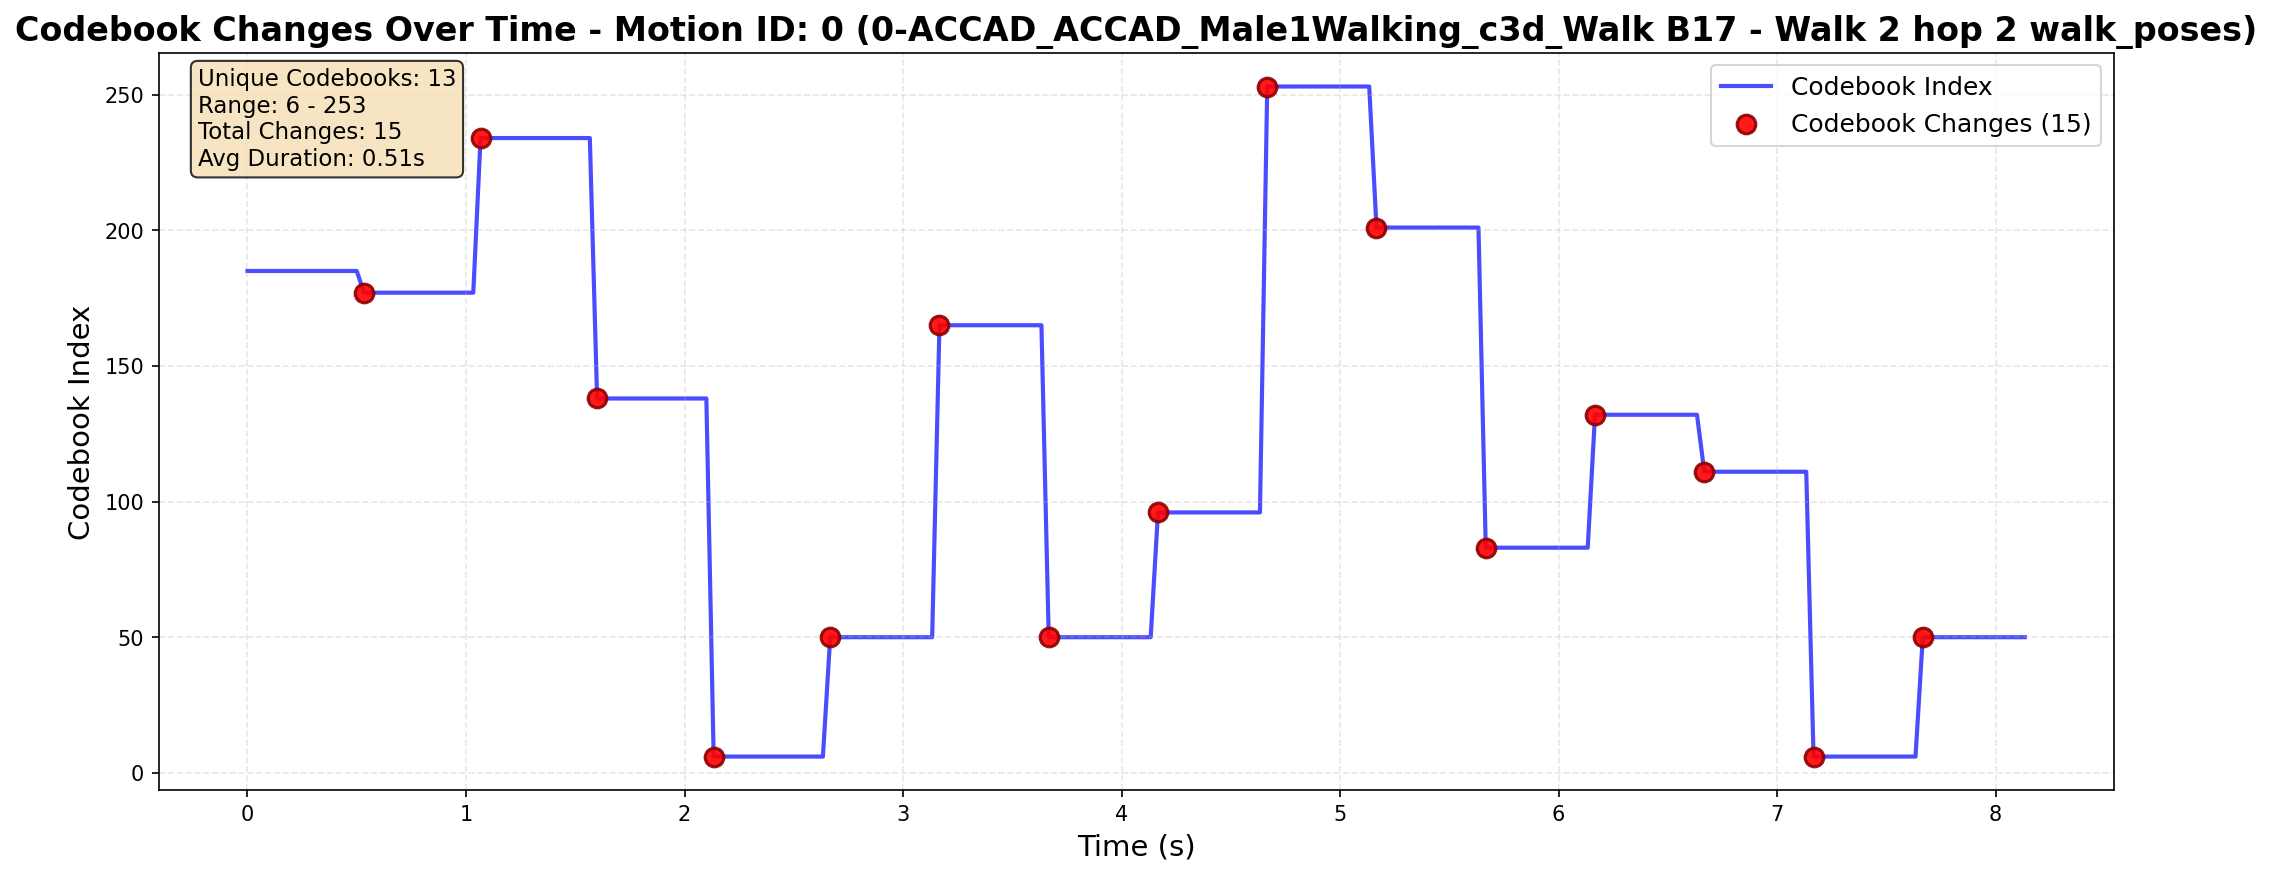
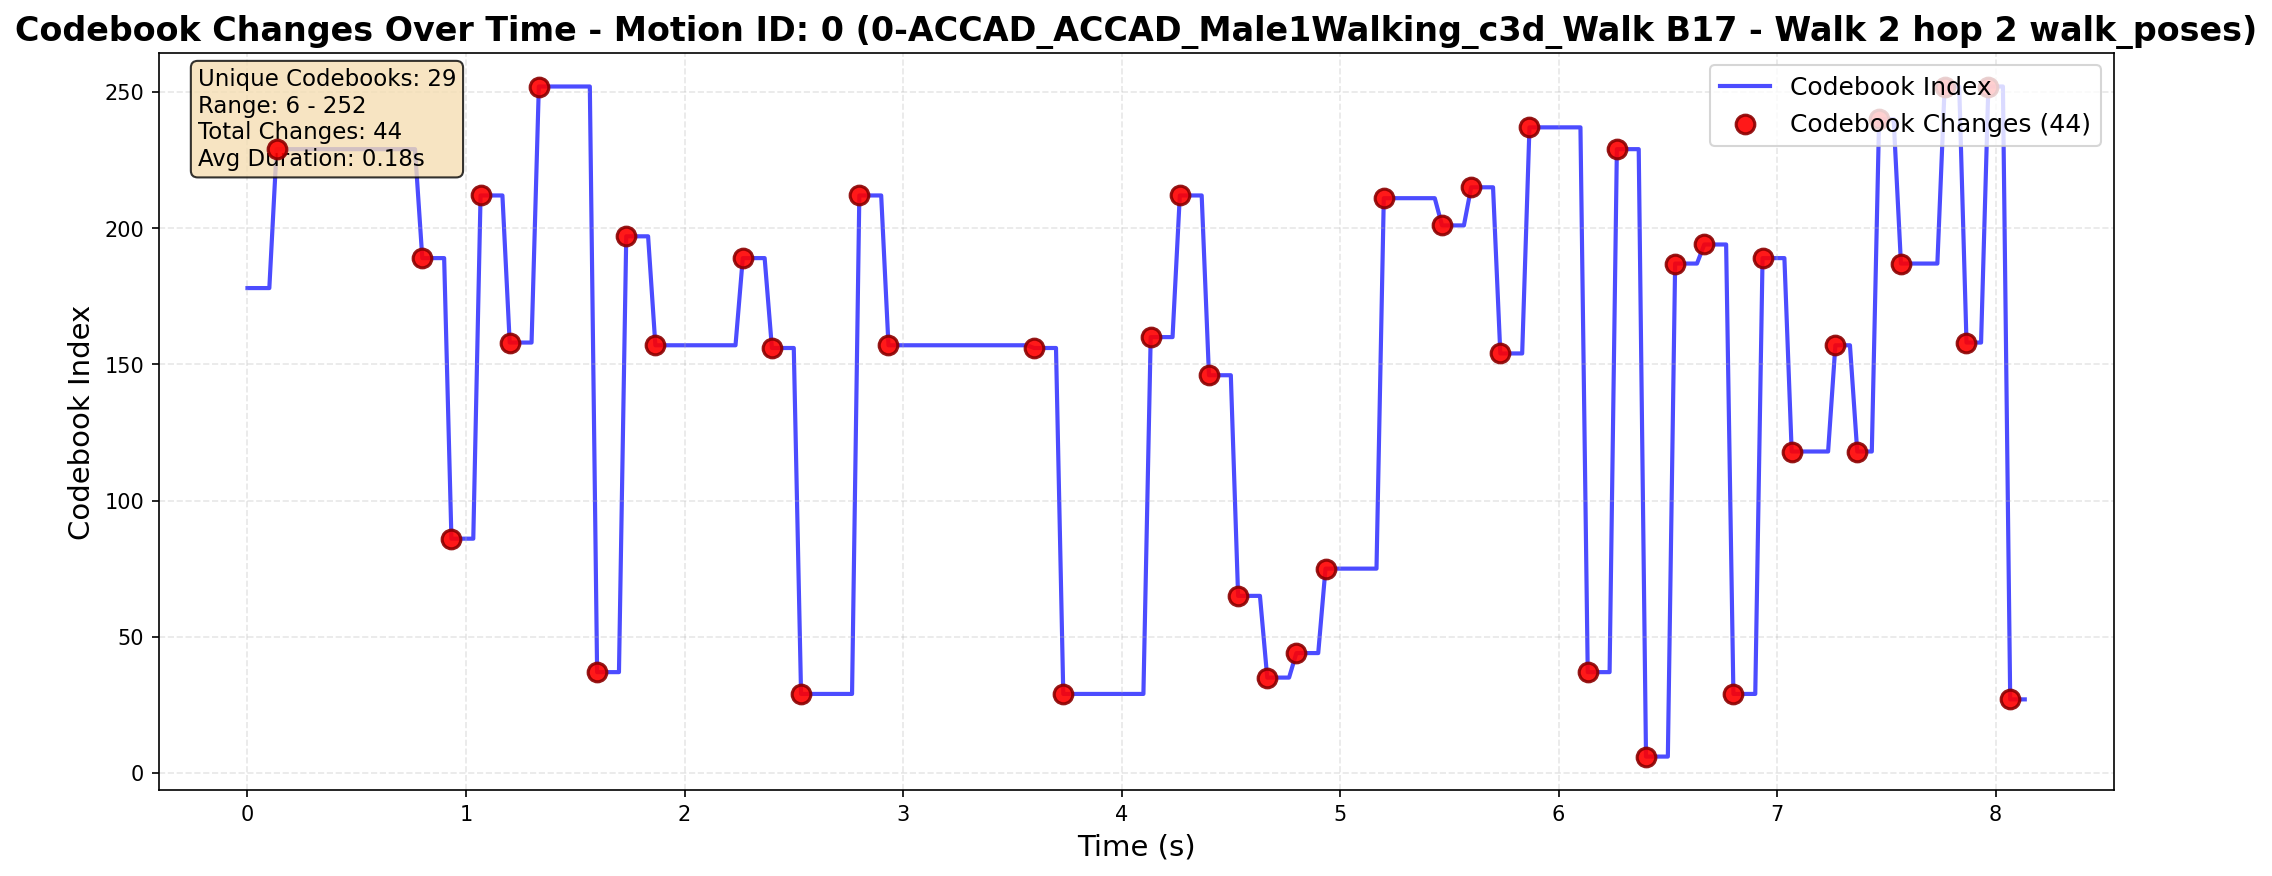
new training for switching

diff --git a/scripts/plot_codebook_amass_pkl.py b/scripts/plot_codebook_amass_pkl.py
@@ -180,7 +180,7 @@ def extract_codebook_sequence_from_amass(amass_pkl_path: Path, original_pkl_path
     
     try:
         # Load motion data for stats (use subset of motions from original file)
-        max_motions_for_stats = min(300, len(list(original_data.keys())))
+        max_motions_for_stats = min(500, len(list(original_data.keys())))
         subset_motion_ids = list(range(max_motions_for_stats))
         mocap_data_stats, _, frame_size = motion_adapter.load_motion_data(
             str(original_pkl_path), subset_motion_ids
@@ -602,7 +602,7 @@ def main():
     parser.add_argument(
         "--config",
         type=str,
-        default="configs/agent.yaml",
+        default="configs/agent_codebook_switching.yaml",
         help="Path to config file (for AMASS format feature extraction)"
     )
     parser.add_argument(
@@ -719,10 +719,13 @@ if __name__ == "__main__":
 Example usage:
 
 # Plot from codebook sequence PKL file (has 'original_motion' and 'reconstructed_motion' keys)
+
 python scripts/plot_codebook_pkl.py   \
 --input outputs/vqvae_amass_motions/vqvae_motion_000.pkl \
 --original-pkl /home/baekdh/dh_workspace/data_phc/data/amass/valid_jh/amass_train.pkl \   
 --output evaluation_plots_v2/motion_0_original_vs_reconstructed.png
+
+
 
 # Plot ONLY codebook changes over time from codebook sequence PKL file
 python scripts/plot_codebook_pkl.py \
@@ -746,7 +749,7 @@ python scripts/plot_codebook_amass_pkl.py \
 python scripts/plot_codebook_amass_pkl.py \
   --input outputs/vqvae_amass_motions/vqvae_motion_008.pkl \
   --original-pkl /home/baekdh/dh_workspace/data_phc/data/amass/valid_jh/amass_train.pkl \
-  --checkpoint /home/baekdh/dh_workspace/vqvae_motion_g1/outputs/run_0_300_32/best_model.ckpt \
+  --checkpoint /home/baekdh/dh_workspace/vqvae_motion_g1/outputs/run_0_500_switching/best_model.ckpt \
   --codebook-only \
   --save-csv /home/baekdh/dh_workspace/hrl/humanoidverse/data/motions/sequence_data/codebook_sequences/motion_8_codebook_ids.csv \
   --output evaluation_plots_v2/motion_8_codebook_changes.png

diff --git a/scripts/generate_motion_from_vqvae_s2.py b/scripts/generate_motion_from_vqvae_s2.py
@@ -285,7 +285,7 @@ class AMASSFormatGenerator:
             print(f"Loaded {len(self.original_keys)} original AMASS motions")
             
             # Load multiple motions for proper normalization statistics (same as eval_vqvae.py)
-            max_motions_for_stats = min(300, len(self.original_keys))
+            max_motions_for_stats = min(500, len(self.original_keys))
             subset_motion_ids = list(range(max_motions_for_stats))
             print(f"Loading first {max_motions_for_stats} motions for normalization stats...")
             
@@ -941,20 +941,22 @@ if __name__ == "__main__":
 '''
 # Example usage with PKL format:
 python scripts/generate_motion_from_vqvae_s2.py \
-  --config configs/agent.yaml \
-  --checkpoint /home/baekdh/dh_workspace/vqvae_motion_g1/outputs/run_0_300_32/best_model.ckpt \
+  --config configs/agent_codebook_switching.yaml \
+  --checkpoint /home/baekdh/dh_workspace/vqvae_motion_g1/outputs/run_0_500_switching/best_model.ckpt \
   --format pkl \
   --input_pkl /home/baekdh/dh_workspace/data_phc/data/amass/valid_jh/amass_train.pkl \
-  --motion_ids "0-300" \
+  --motion_ids "0-500" \
   --output_dir ./outputs/vqvae_amass_motions
+
+
 
 # Example usage for extracting codebook sequences with PKL format:
 python scripts/generate_motion_from_vqvae_s2.py \
-  --config configs/agent.yaml \
-  --checkpoint /home/baekdh/dh_workspace/vqvae_motion_g1/outputs/run_0_300_32/best_model.ckpt \
+  --config configs/agent_codebook_switching.yaml \
+  --checkpoint /home/baekdh/dh_workspace/vqvae_motion_g1/outputs/run_0_500_switching/best_model.ckpt \
   --format pkl \
   --input_pkl /home/baekdh/dh_workspace/data_phc/data/amass/valid_jh/amass_train.pkl \
-  --motion_ids "301-500" \
+  --motion_ids "0-500" \
   --extract_codebook \
   --codebook_output_dir ./outputs/codebook_sequences
 

diff --git a/scripts/eval_vqvae.py b/scripts/eval_vqvae.py
@@ -282,7 +282,7 @@ def main():
     parser.add_argument("--checkpoint", type=str, required=True, help="Path to model checkpoint file")
     parser.add_argument("--input_pkl", type=str, required=True, help="Path to input PKL motion data file")
     parser.add_argument("--motion_id", type=int, required=True, help="The ID (index) of the motion to evaluate")
-    parser.add_argument("--max_motions_for_stats", type=int, default=300, help="Max motions to use for normalization stats")
+    parser.add_argument("--max_motions_for_stats", type=int, default=500, help="Max motions to use for normalization stats")
     parser.add_argument("--output_dir", type=str, default="./evaluation_plots", help="Directory to save plots/errors")
     parser.add_argument("--eval_stride", type=int, default=None, help="Stride for overlapped reconstruction (default: window_size//2)")
 
@@ -306,8 +306,8 @@ if __name__ == "__main__":
 '''
 
 python scripts/eval_vqvae.py \
-  --config configs/agent.yaml \
-  --checkpoint outputs/run_0_300/best_model.ckpt \
+  --config configs/agent_codebook_switching.yaml \
+  --checkpoint outputs/run_0_500_switching/best_model.ckpt \
   --input_pkl /home/baekdh/dh_workspace/data_phc/data/amass/valid_jh/amass_train.pkl \
   --motion_id 0 \
   --output_dir ./evaluation_plots

diff --git a/scripts/train_vqvae.py b/scripts/train_vqvae.py
@@ -220,11 +220,11 @@ if __name__ == "__main__":
 
 # Range format (existing):
 python scripts/train_vqvae.py \
-  --config configs/agent.yaml \
+  --config configs/agent_codebook_switching.yaml \
   --motion_file /home/baekdh/dh_workspace/data_phc/data/amass/valid_jh/amass_train.pkl \
-  --motion_ids "0-300" \
+  --motion_ids "0-500" \
   --device auto \
-  --output_dir ./outputs/run_0_300_32
+  --output_dir ./outputs/run_0_500_switching
 
 
 
@@ -233,7 +233,7 @@ python scripts/train_vqvae.py \
 python scripts/train_vqvae.py \
   --config configs/agent_codebook_1s_npy.yaml \
   --motion_file /home/baekdh/dh_workspace/data_deploy/deploy_pkl/each_motion_npy \
-  --motion_ids "0-300" \
+  --motion_ids "0-500" \
   --device auto \
   --output_dir ./outputs/agent_codebook_1s_npy
 
